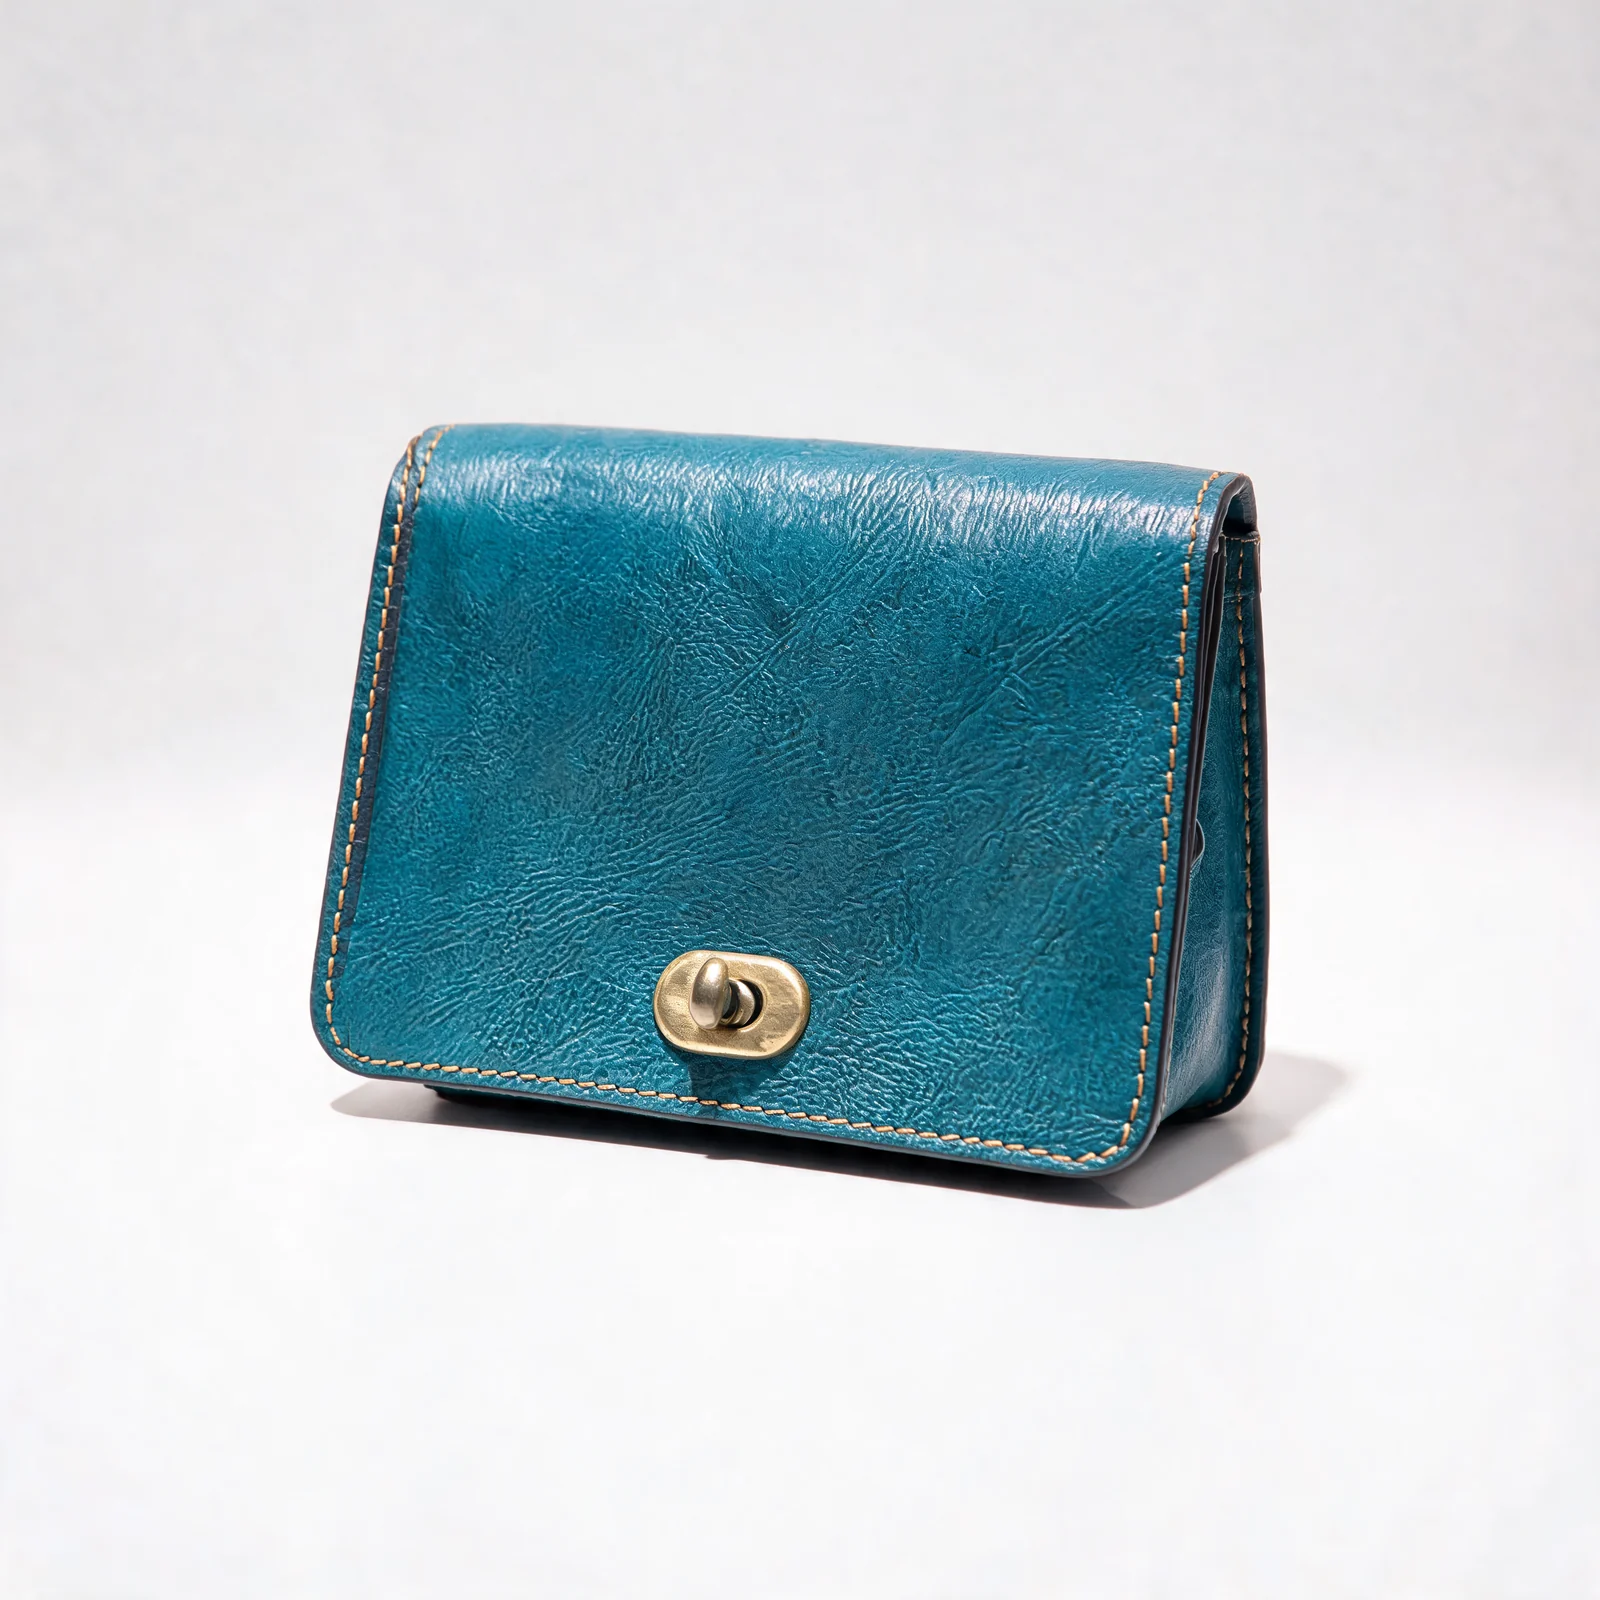
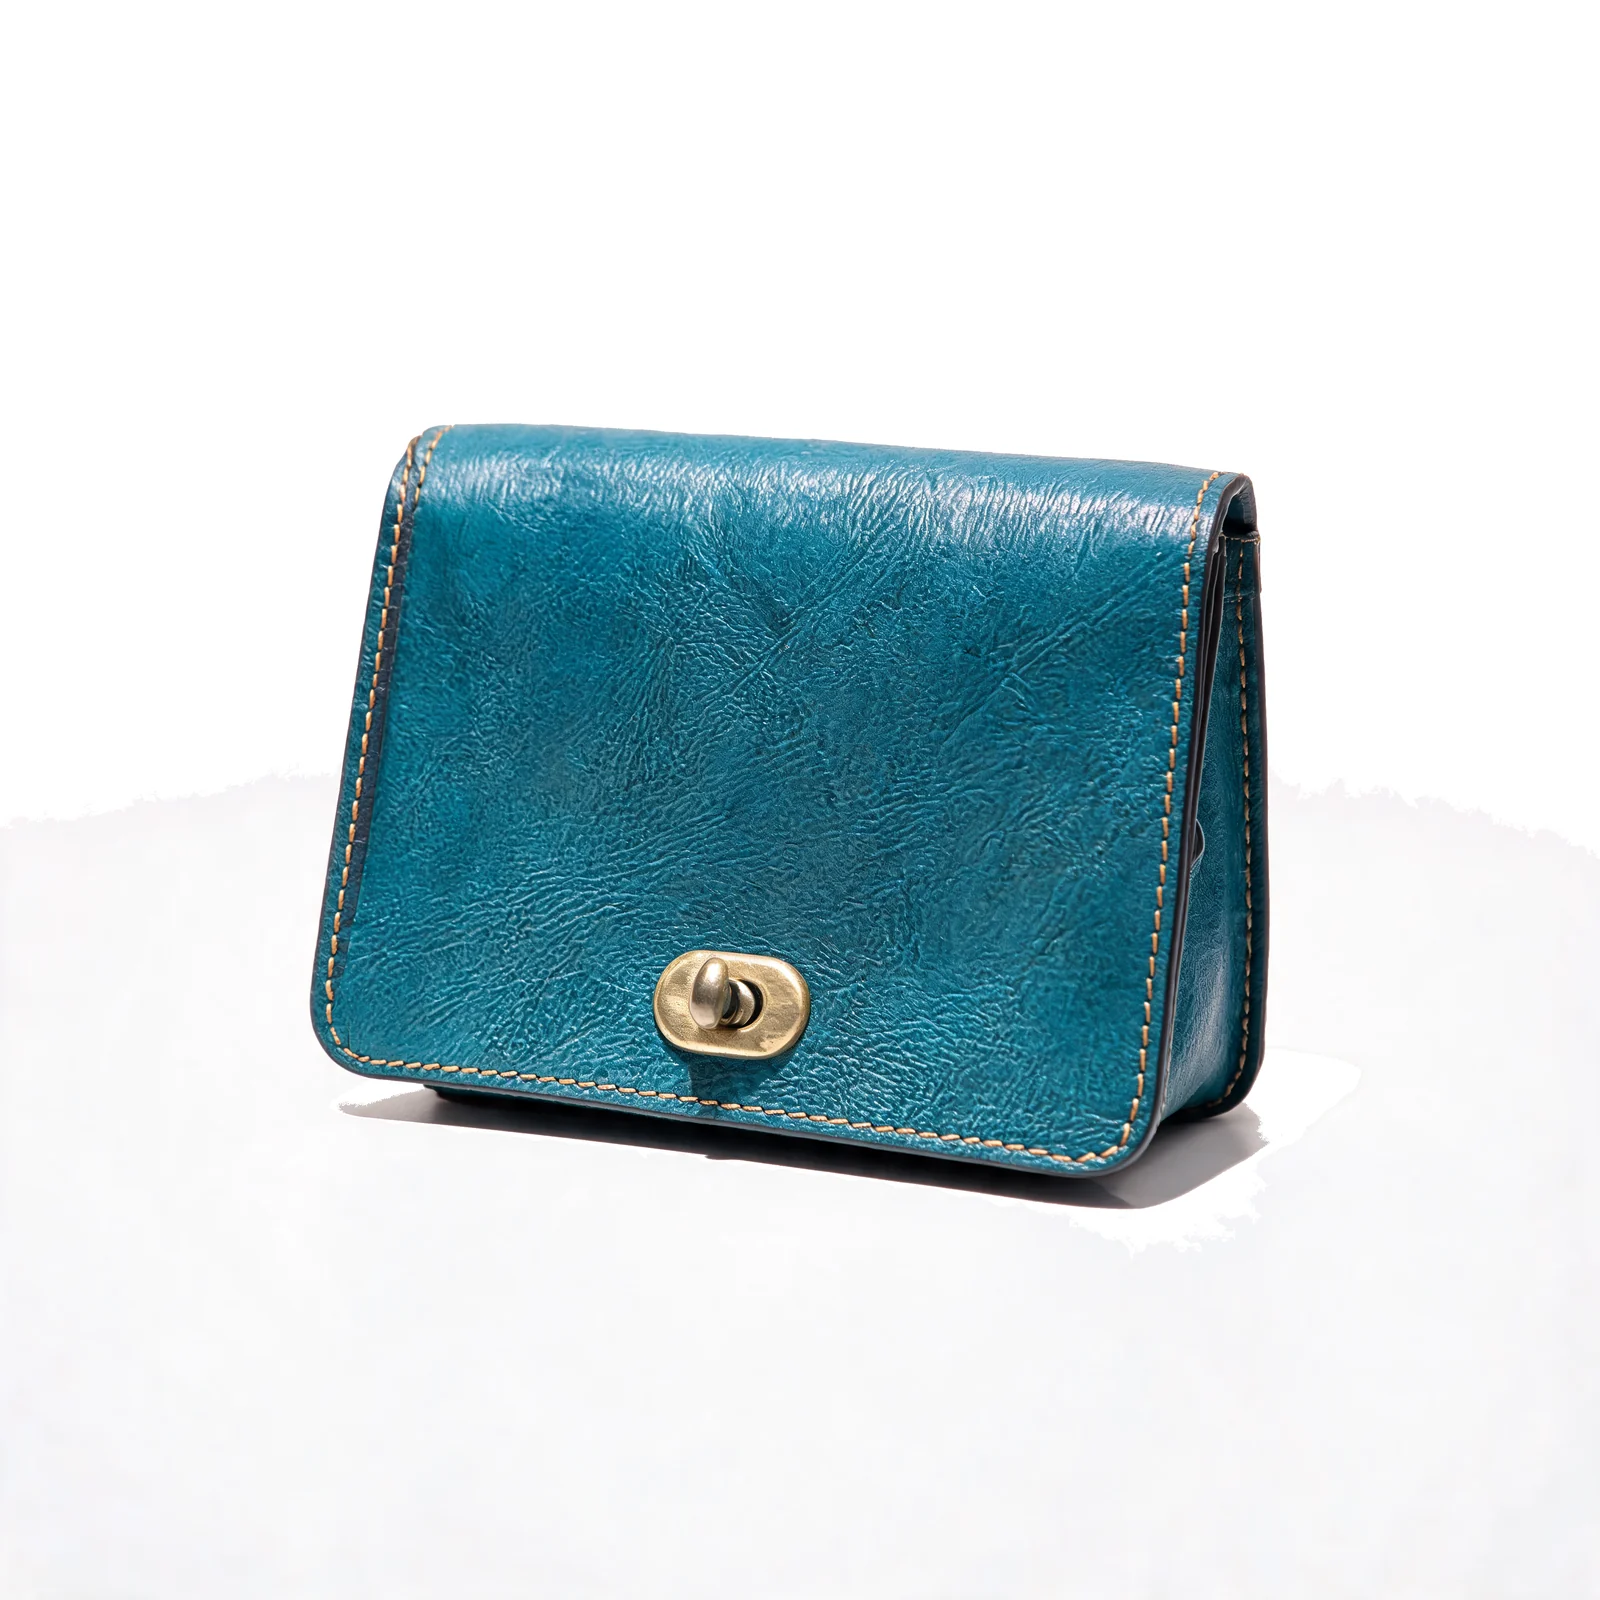
fix(catalog): flood-fill grey CYC backgrounds on crossbody heroes
Drive Hero PNGs for medina-crossbody-clasp-teal + medina-crossbody-cognac
were shot on a photographer's grey seamless backdrop (CYC) — fine in
print but breaks the white-card consistency the rest of the catalog
follows. Extended encode-product-heroes.py whiten_background() with a
second case that flood-fills mid-grey corners (160-245 RGB) with a
fatter 70-distance threshold. Bag-coloured pixels are far enough from
grey that the flood stops cleanly at the silhouette.

Result: 42/45 cards on pure white, 2 effectively white (avg 244-245),
1 (explorer-rolltop-cognac) keeps its moody studio gradient — its
vignette would smear under aggressive flood, accepted as editorial.

Changed region(s): [[0.0, 0.0, 1.0, 0.5], [0.7812, 0.6562, 0.8438, 0.7188], [0.2188, 0.6562, 0.25, 0.6875]]

diff --git a/scripts/encode-product-heroes.py b/scripts/encode-product-heroes.py
@@ -96,19 +96,29 @@ def find_hero(folder: Path) -> Path | None:
 
 
 def whiten_background(im: Image.Image) -> Image.Image:
-    """If the image corners are dark (alpha-flattened-to-black or saved-as-black),
-    flood-fill from each corner replacing the connected dark region with white.
-    Threshold is tight (40) so it only catches uniform-dark backgrounds, not
-    legitimate dark leather/shadow pixels on the subject.
+    """Flood-fill non-white photographer's backgrounds from each corner.
+
+    Two cases handled separately:
+      A. Black corners (saved-as-black or alpha-flattened-to-black) — tight
+         threshold (40) so the fill stops fast and doesn't bleed into dark
+         leather/shadow pixels on the subject.
+      B. Mid/light-grey corners (CYC seamless backdrops where the photographer
+         used grey instead of pure white) — fatter threshold (70) so the fill
+         covers the whole grey-to-white gradient. Safe because the bag colour
+         (cognac/teal/whatever) is far from grey 200ish in colour distance.
     """
     from PIL import ImageDraw
     w, h = im.size
     seeds = [(2, 2), (w - 3, 2), (2, h - 3), (w - 3, h - 3)]
-    THRESH = 40  # max colour distance for flood
     for seed in seeds:
-        pix = im.getpixel(seed)
-        if pix[0] < 25 and pix[1] < 25 and pix[2] < 25:
-            ImageDraw.floodfill(im, seed, (255, 255, 255), thresh=THRESH)
+        r, g, b = im.getpixel(seed)[:3]
+        if r < 25 and g < 25 and b < 25:
+            # Case A — black/dark corner
+            ImageDraw.floodfill(im, seed, (255, 255, 255), thresh=40)
+        elif 160 < r < 245 and 160 < g < 245 and 160 < b < 245:
+            # Case B — mid-grey CYC corner (skip pure-white corners since
+            # they need no fill, and skip near-bag pixels < 160)
+            ImageDraw.floodfill(im, seed, (255, 255, 255), thresh=70)
     return im
 
 